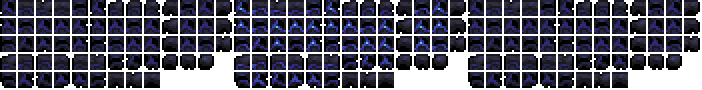
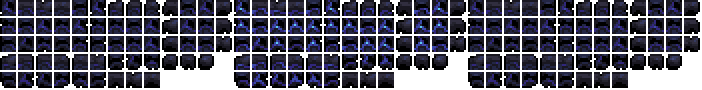
Renamed some Fossil shale stuff, Added some NPCBehaviorOverride methods, added voidstoneScream

diff --git a/Content/BehaviorOverrides/VoidstoneScreamerNPC/VoidstoneScreamer.cs b/Content/BehaviorOverrides/VoidstoneScreamerNPC/VoidstoneScreamer.cs
@@ -1,9 +1,11 @@
-using BreadLibrary.Core.Sounds;
-using Terraria.Audio;
-using Terraria.GameContent;
+using AbyssOverhaul.Content.BehaviorOverrides.VoidstoneScreamerNPC;
+using BreadLibrary.Core.Graphics.Particles;
+using BreadLibrary.Core.Sounds;
+
 
 namespace AbyssOverhaul.Content.BehaviorOverrides
 {
+    //that stupid fucking fish that i hate
     public sealed class VoidstoneScreamer : NPCBehaviorOverride, IEcologyParticipant
     {
         public void SetSpeciesEcology(SpeciesEcologyDefinition definition)
@@ -13,6 +15,7 @@ namespace AbyssOverhaul.Content.BehaviorOverrides
             definition.BaseFear = 0.8f;
             definition.BaseMaxHunger = 60;
             definition.FoodConsumer = FoodConsumerType.Scavenger;
+            definition.Metabolism.ActivityCost = 0.2f;
         }
 
         public void SetupIndividualEcology(NPC npc, EcologyGlobalNPC ecology)
@@ -32,7 +35,20 @@ namespace AbyssOverhaul.Content.BehaviorOverrides
             SpotIntruder,
             Investigate,
 
-            Scream
+            Scream,
+            Fuck_off_Before_Predators_Rip_you_to_shreds
+        }
+        public state CurrentState
+        {
+            get;
+            set;
+            //    get=> (state)NPC.ai[0];
+            //    set => NPC.ai[0] = (int)value;
+        }
+
+        public override void ModifyTypeName(NPC npc, ref string typeName)
+        {
+            typeName = Language.GetOrRegister("Mods.AbyssOverhaul.NPCOverrides.VoidstoneScreamer").Value;
         }
[1 lines of base64/hex data omitted]
 
@@ -43,17 +59,19 @@ namespace AbyssOverhaul.Content.BehaviorOverrides
 
             npc.lifeMax = 12_000;
 
-
         }
         public override void Load()
         {
 
-            Main.npcFrameCount[NPCType] = 1;
+            Main.npcFrameCount[NPCType] = 2;
         }
 
+        public override void SpawnNPC(int npc, int tileX, int tileY)
+        {
+            base.SpawnNPC(npc, tileX, tileY);
+        }
         public override void OnSpawn(NPC npc, IEntitySource source)
         {
-            base.OnSpawn(npc, source);
 
 
         }
@@ -68,11 +86,17 @@ namespace AbyssOverhaul.Content.BehaviorOverrides
                 Interpolant = float.Lerp(Interpolant, 1, 0.1f);
                 if (ScreamLoop is null || ScreamLoop.HasBeenStopped)
                 {
-                    ScreamLoop= LoopedSoundManager.CreateNew(Assets.Sounds.NPCs.VoidstoneScreamer.ScreamLoop.Asset, () => npc == null || !npc.active);
+                    ScreamLoop = LoopedSoundManager.CreateNew(Assets.Sounds.NPCs.VoidstoneScreamer.ScreamLoop.Asset, () => npc == null || !npc.active);
                 }
                 else
                 {
-                   
+                    if (Main.GameUpdateCount % 50 <= 1)
+                    {
+
+                        VoidstoneScreamParticle particle = new();
+                        particle.Prepare(npc.Center, Vector2.zeroVector, Color.Aquamarine, 0.2f, 20);
+                        ParticleEngine.ShaderParticles.Add(particle);
+                    }
                 }
             }
             else
@@ -80,9 +104,40 @@ namespace AbyssOverhaul.Content.BehaviorOverrides
                 Interpolant = float.Lerp(Interpolant, 0, 0.1f);
             }
 
+            StateMachine(npc);
+            UpdateSoundLoop(npc);
+
+            return true;
+        }
 
 
-            if(ScreamLoop is not null)
+
+        void StateMachine(NPC npc)
+        {
+            switch (CurrentState)
+            {
+                case state.FlopAroundOnLand:
+
+                    break;
+                case state.SwimAroundWaterWithoutBumpingIntoWalls:
+
+                    break;
+                case state.SpotIntruder:
+                    break;
+                case state.Investigate:
+                    break;
+                case state.Scream:
+                    break;
+
+                case state.Fuck_off_Before_Predators_Rip_you_to_shreds:
+
+                    break;
+            }
+        }
+
+        void UpdateSoundLoop(NPC npc)
+        {
+            if (ScreamLoop is not null)
             {
                 ScreamLoop.Update(npc.Center, (a) =>
                 {
@@ -90,10 +145,13 @@ namespace AbyssOverhaul.Content.BehaviorOverrides
                     a.Pitch = Interpolant;
                 });
             }
-            return true;
         }
 
-
+        public override bool OverrideFindFrame(NPC NPC)
+        {
+            NPC.frame.Y = (CurrentState == state.Scream) ? NPC.height : 0;
+            return true;
+        }
         public override bool PreDraw(NPC npc, SpriteBatch spriteBatch, Vector2 screenPos, Color drawColor)
         {
             Vector2 DrawPos = npc.Center - screenPos;
@@ -108,6 +166,6 @@ namespace AbyssOverhaul.Content.BehaviorOverrides
             return false;
         }
 
-      
+
     }
 }

diff --git a/Core/NPCOverrides/NPCBehaviorOverride.cs b/Core/NPCOverrides/NPCBehaviorOverride.cs
@@ -5,6 +5,12 @@ namespace AbyssOverhaul.Core.NPCOverrides
 {
     public abstract class NPCBehaviorOverride
     {
+        #region ImportantStuff
+        /// <summary>
+        /// The vanilla/modded NPC type this override is for.
+        /// </summary>
+        public abstract int NPCType { get; }
+
         /// <summary>
         /// If non-null, this texture will replace TextureAssets.Npc[NPCType].
         /// </summary>
@@ -18,10 +24,6 @@ namespace AbyssOverhaul.Core.NPCOverrides
         {
 
         }
-        /// <summary>
-        /// The vanilla/modded NPC type this override is for.
-        /// </summary>
-        public abstract int NPCType { get; }
 
         /// <summary>
         /// Extra condition beyond NPC.type.
@@ -29,6 +31,7 @@ namespace AbyssOverhaul.Core.NPCOverrides
         /// </summary>
         public virtual bool ShouldOverride(NPC NPC) => NPC.type == NPCType;
 
+        #endregion
         /// <summary>
         /// Runs once after the override is instantiated and registered.
         /// </summary>
@@ -38,11 +41,20 @@ namespace AbyssOverhaul.Core.NPCOverrides
 
         public virtual void SetStaticDefaults() { }
 
+        #region Defaults and AI
 
         /// <summary>
         /// Runs from GlobalNPC.SetDefaults.
         /// </summary>
         public virtual void SetDefaults(NPC NPC) { }
+
+        /// <summary>
+        /// Hard AI replacement. Return true if you handled AI and want to suppress orig.
+        /// </summary>
+        public virtual bool OverrideAI(NPC NPC) => false;
+        #endregion
+
+        #region SpawnStuff
 
         public virtual void OnSpawn(NPC NPC, IEntitySource source)
         {
@@ -50,14 +62,21 @@ namespace AbyssOverhaul.Core.NPCOverrides
         }
 
 
+        public virtual void SpawnNPC(int npc, int tileX, int tileY)
+        {
+
+        }
+        #endregion
+
+        #region Kill Stuff
+
+        public virtual bool CheckActive(NPC NPC) => true;
         public virtual void OnKill(NPC NPC) { }
 
-        /// <summary>
-        /// Hard AI replacement. Return true if you handled AI and want to suppress orig.
-        /// </summary>
-        public virtual bool OverrideAI(NPC NPC) => false;
+        public virtual bool CheckDead(NPC NPC) => true;
 
-
+        #endregion
+      
         #region Collision, onhit, etc.
         public virtual void OnHitPlayer(NPC npc, Player target, Player.HurtInfo hurtInfo)
         {
@@ -70,6 +89,7 @@ namespace AbyssOverhaul.Core.NPCOverrides
 
         #endregion
 
+        #region DrawCode
         /// <summary>
         /// Hard FindFrame replacement. Return true if you handled framing and want to suppress orig.
         /// </summary>
@@ -87,12 +107,14 @@ namespace AbyssOverhaul.Core.NPCOverrides
         /// </summary>
         public virtual bool DrawDirect(NPC NPC, SpriteBatch spriteBatch, Vector2 screenPos, bool behindTiles) => false;
 
-        public virtual bool CheckDead(NPC NPC) => true;
+        #endregion
 
         public virtual void BossHeadSlot(NPC NPC, ref int index) { }
 
+        #region NetSyncing
         public virtual void SendExtraAI(NPC NPC, BinaryWriter writer) { }
 
         public virtual void ReceiveExtraAI(NPC NPC, BinaryReader reader) { }
+        #endregion
     }
 }

diff --git a/Content/BehaviorOverrides/VoidstoneScreamerNPC/VoidstoneScreamParticle.cs b/Content/BehaviorOverrides/VoidstoneScreamerNPC/VoidstoneScreamParticle.cs
@@ -1,0 +1,56 @@
+using BreadLibrary.Core.Graphics;
+using BreadLibrary.Core.Graphics.Particles;
+using BreadLibrary.Core.Graphics.PixelationShit;
+using Terraria.Graphics.Renderers;
+
+namespace AbyssOverhaul.Content.BehaviorOverrides.VoidstoneScreamerNPC
+{
+    internal class VoidstoneScreamParticle : BaseParticle<VoidstoneScreamParticle>, IDrawPixellated
+    { 
+        Vector2 Position;
+        Vector2 Velocity;
+        Color Color;
+        float Scale;
+        int TimeLeft = 0;
+        int MaxTime;
+
+        public void Prepare(Vector2 position, Vector2 velocity, Color color, float scale, int timeLeft)
+        {
+            
+            Position = position;
+            Velocity = velocity;
+            Color = color;
+            Scale = scale;
+            TimeLeft = timeLeft;
+            MaxTime = timeLeft;
+        }
+        public override void Update(ref ParticleRendererSettings settings)
+        {
+            Position += Velocity;
+            TimeLeft--;
+            if (TimeLeft <= 0)
+                ShouldBeRemovedFromRenderer = true;
+        }
+        public override void Draw(ref ParticleRendererSettings settings, SpriteBatch spritebatch)
+        {
+
+            Texture2D tex = Assets.Textures.Burst.T_Burst048.Asset.Value;
+
+            Vector2 drawPos = Position - Main.screenPosition;
+
+            float Opacity = Utilities.InverseLerp(0, MaxTime, TimeLeft);
+            Main.EntitySpriteDraw(tex, drawPos, null, Color with { A = 0 } * Opacity, 0, tex.Size() / 2, Scale*(1-Opacity), SpriteEffects.None, 0);
+        }
+        PixelLayer IDrawPixellated.PixelLayer => PixelLayer.AboveNPCs;
+
+        void IDrawPixellated.DrawPixelated(SpriteBatch spriteBatch)
+        {
+            Texture2D tex = Assets.Textures.Burst.T_Burst048.Asset.Value;
+
+            Vector2 drawPos = Position - Main.screenPosition;
+
+            float Opacity = Utilities.InverseLerp(0, MaxTime, TimeLeft);
+            Main.EntitySpriteDraw(tex, drawPos, null, Color * Opacity, 0, tex.Size() / 2, Scale, SpriteEffects.None, 0);
+        }
+    }
+}

diff --git a/Core/NPCOverrides/NPCOverrideGlobalNPC.cs b/Core/NPCOverrides/NPCOverrideGlobalNPC.cs
@@ -25,6 +25,14 @@ namespace AbyssOverhaul.Core.NPCOverrides
             return OverrideInstance;
         }
 
+        public NPCBehaviorOverride GetOverride(int npcType)
+        {
+            if (OverrideInstance is not null)
+                return OverrideInstance;
+
+            OverrideInstance = NPCOverrideRegistry.CreateFor(NPCLoader.npcs[npcType].NPC);
+            return OverrideInstance;
+        }
     
            
         
@@ -38,6 +46,21 @@ namespace AbyssOverhaul.Core.NPCOverrides
             GetOverride(npc)?.OnSpawn(npc, source);
         }
 
+
+        public override void SpawnNPC(int npc, int tileX, int tileY)
+        {
+            GetOverride(npc)?.SpawnNPC(npc, tileX, tileY);
+        }
+
+        public override bool CheckActive(NPC npc)
+        {
+            bool result = base.CheckActive(npc);
+            if ((GetOverride(npc)?.CheckActive(npc)).HasValue)
+            {
+                result = (GetOverride(npc)?.CheckActive(npc)).Value;
+            }
+            return result;
+        }
         public override bool CheckDead(NPC npc)
         {
             NPCBehaviorOverride ov = GetOverride(npc);

diff --git a/Content/Layers/FossilShale/WorldGen/BacteriaVinesAndChains.cs b/Content/Layers/FossilShale/WorldGen/BacteriaVinesAndChains.cs
@@ -111,7 +111,7 @@ namespace AbyssOverhaul.Content.Layers.FossilShale.WorldGen
                     continue;
 
                 float widthFactor = MathHelper.Clamp((radius - 4f) / 10f, 0f, 1f);
-                float placeChance = MathHelper.Lerp(0.16f, 0.72f, widthFactor);
+                float placeChance = MathHelper.Lerp(0.4f, 0.8f, widthFactor);
 
                 if (rand.NextFloat() > placeChance)
                     continue;
@@ -121,7 +121,7 @@ namespace AbyssOverhaul.Content.Layers.FossilShale.WorldGen
                     lastPlacedIndex = i;
 
                     // Pre-sag it a bit so it doesn't begin as a perfectly straight line.
-                    SeedChainSag(chain, rand.NextFloat(6f, 16f));
+                    SeedChainSag(chain, rand.NextFloat(1f, 6f));
                 }
             }
         }

diff --git a/AbyssOverhaul.cs b/AbyssOverhaul.cs
@@ -20,6 +20,9 @@ global using Terraria.WorldBuilding;
 global using Terraria.DataStructures;
 global using static AbyssOverhaul.AbyssOverhaul;
 global using AbyssOverhaul.Core.Ecosystem.Ecology;
+global using Terraria.Audio;
+global using Terraria.GameContent;
+global using Terraria.Localization;
 using System.Runtime.CompilerServices;
 using Wayfarer.API;
 

diff --git a/Core/ModPlayers/AbyssPlayer.cs b/Core/ModPlayers/AbyssPlayer.cs
@@ -81,6 +81,8 @@ namespace AbyssOverhaul.Core.ModPlayers
 
 
 
+
+
         public override void ResetEffects()
         {
             // These are recalculated every tick.
